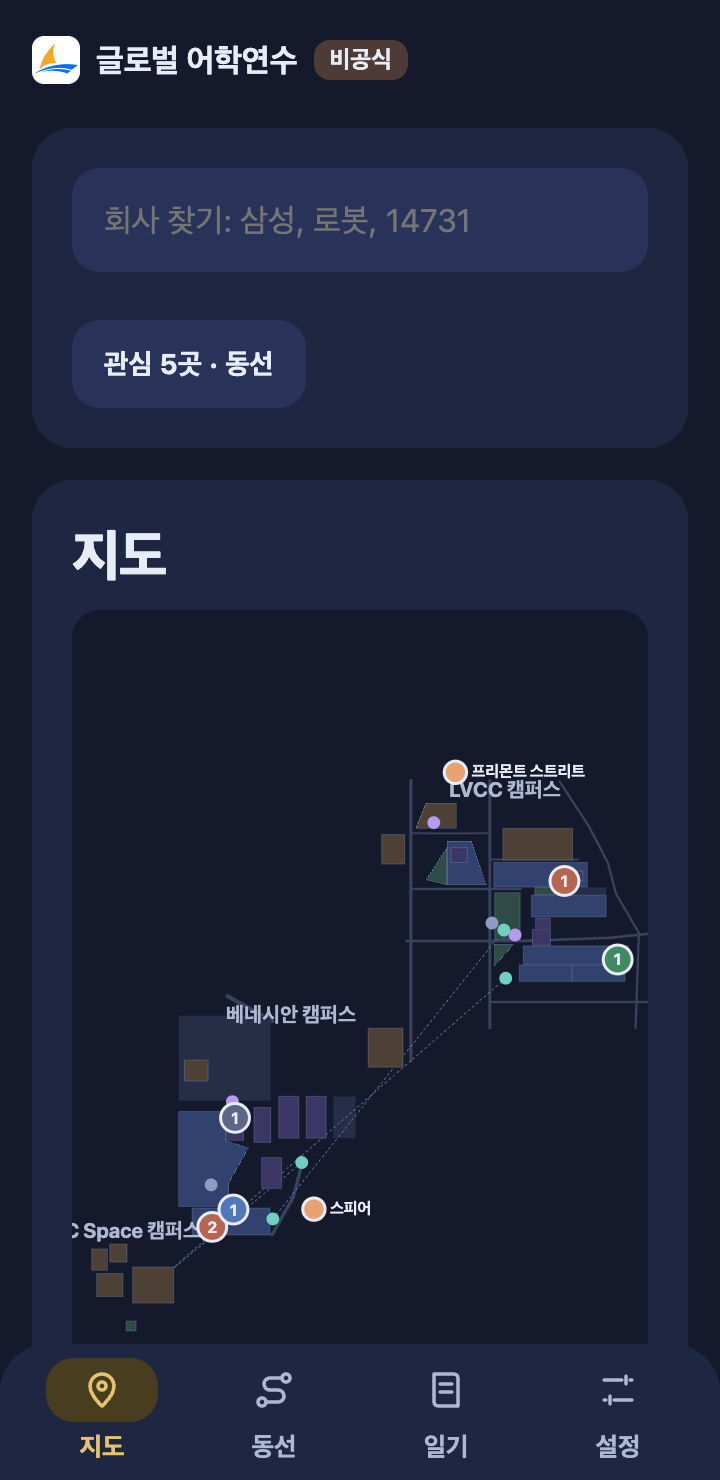
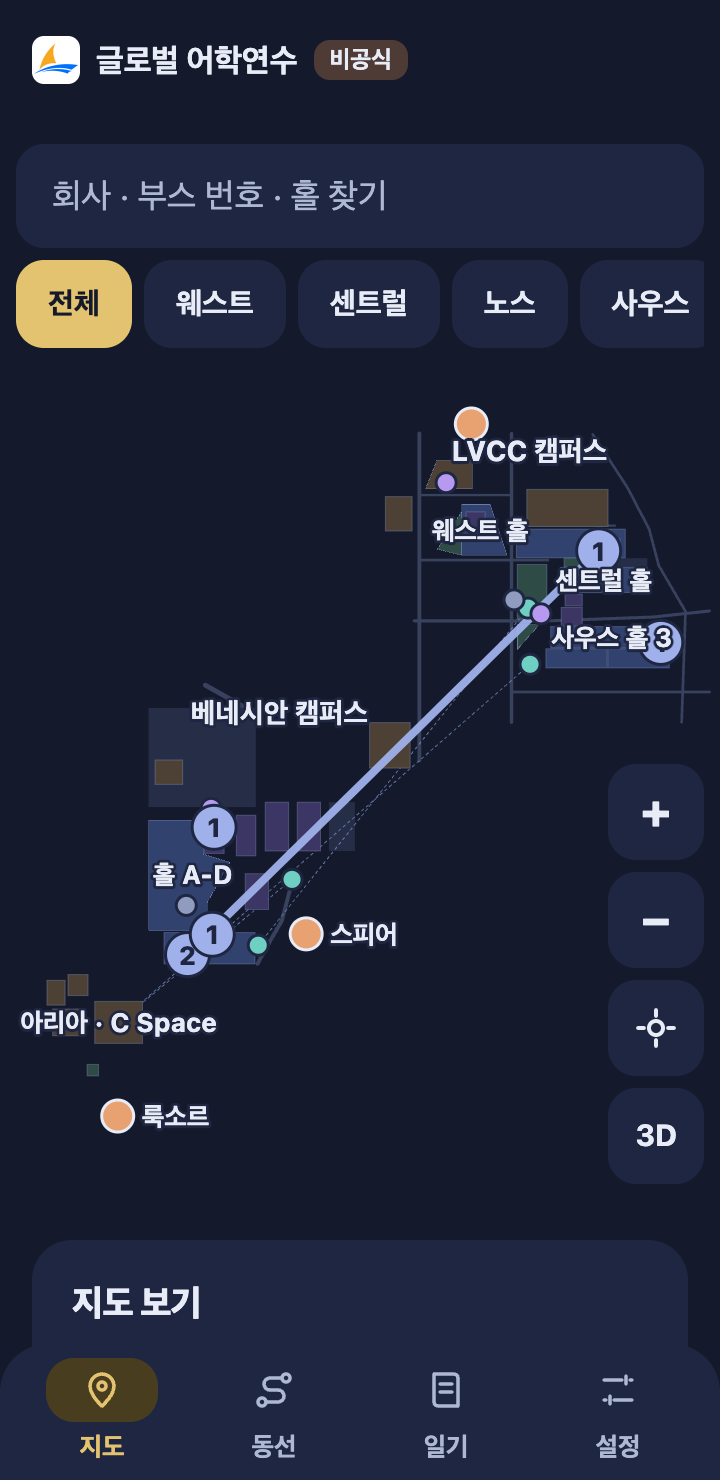
무채색 테마: 새 지도 위에서 사진 · 홀 칩 · 작업.md 맞춤
- 홀 칩(.chip-go) 고른 것도 검정 칠한 칩으로(강조색은 관심 · 동선 · 위치에만)
- 전 · 후 사진을 #63(지도 4단계) 기준으로 다시 찍음(찾기 · 부스 카드 포함)
- 작업.md에 기록

diff --git a/web/app.css b/web/app.css
@@ -230,7 +230,7 @@ details.more[open] > summary { margin-bottom: var(--s2); }
 .chips { display: flex; gap: 6px; overflow-x: auto; scrollbar-width: none; padding-bottom: 2px; }
 .chips::-webkit-scrollbar { display: none; }
 .chip-go { flex: none; min-height: var(--tap-min); padding: 0 var(--s4); border: 0; border-radius: var(--radius-ctl); background: var(--panel); color: var(--ink); font-size: 15px; font-weight: 700; cursor: pointer; }
-.chip-go[aria-pressed="true"] { background: var(--accent); color: var(--on-accent); }
+.chip-go[aria-pressed="true"] { background: var(--btn); color: var(--on-btn); }
 .ctls { position: absolute; right: var(--s2); bottom: calc(var(--s4) + var(--sheet-h, 0px)); z-index: 3; display: grid; gap: 6px; transition: bottom 0.22s ease; }
 .mapx[data-sheet="half"] .ctls, .mapx[data-sheet="full"] .ctls { display: none; }
 .ctl { display: flex; align-items: center; justify-content: center; width: 48px; height: 48px; padding: 0; border: 0; border-radius: var(--radius-ctl); background: var(--panel); color: var(--ink); font-size: 24px; font-weight: 700; cursor: pointer; }

diff --git a/작업.md b/작업.md
@@ -329,6 +329,18 @@
 - 사진(360px, 밝게): 전 `docs/screens/90-before-*.png`(캠퍼스 · 노스 홀 · 베네시안 G) → 후 `91-after-campus.png` · `92-after-hall.png`(+ 390px `96`) · `93-after-booth.png` · `94-after-card.png`(+ 390px `97`) · `95-after-search.png`
 - 남은 것(사람 · 실제 폰): 실제 폰에서 두 손가락 확대의 감각과 60프레임(테스터 안내 4-1), 아이폰 사파리에서 지도 위 끌기가 페이지 스크롤과 부딪치지 않는지. 지도 색은 곧 바뀌는 무채색 테마 토큰을 따른다. 부스 자리는 정식 배치도 전이라 계속 짐작이다
 
+### 무채색 테마 (11/22, 단계 밖 · 다시 짓기와 따로)
+
+이재엽 "무채색 중심, 요즘 앱 모양, 강조색 하나". 색과 모양 토큰(`web/tokens.css`)과 공통 CSS(`web/app.css`)만 고쳤다. 지도를 그리는 코드는 건드리지 않았고 지도 색은 토큰이 따라온다.
+
+- [x] 색: 바탕 · 카드 · 글씨는 회색 단계(밝게 #f2f2f2 · #fff · #111, 어둡게 #161616 · #222 · #f2f2f2). 색은 채도를 낮춘 회청색 강조색 하나(관심 · 동선 · 지금 위치 · 고른 것) + 상태 글자색 하나. 탭마다 다른 강조색 · 민트 · 복숭아 · 라일락 면은 없앴다(`--lilac` 삭제, `--tab-*` 삭제)
+- [x] 모양: 큰 제목 34, 모서리 8 ~ 12, 그림자 · 선 없음, 검정(어둡게 흰색) 칠한 단추 `--btn` + 글자 단추. 고르는 칩은 고르면 검정 칠한 면. 테마 셋(자동 · 밝게 · 어둡게)은 그대로
+- [x] 지도 토큰: 홀 · 부스 · 길은 회색 단계, 날짜별 동선 번호는 강조색 농도, 분야 칠하기는 기본으로 꺼져 있고(한 색 = 회색 점) 고를 때만 채도를 낮춘 일곱 색
+- [x] 색 수(전 → 후): 토큰 값 92 → 70(회색이 아닌 것 76 → 29, 그중 14는 분야 칠하기 선택 색), 화면에 칠해진 색(계산값, 지도 · 동선 · 일기 · 설정 합) 밝게 27 → 19 · 어둡게 28 → 19, 그중 회색이 아닌 것 15 → 1 · 26 → 2
+- [x] 시험: smoke 170 통과(파스텔 · 탭 강조색 검사를 무채색 규칙 검사로 바꿈) · Playwright 셋(첫 명함 · 지도 · 대화) 통과 · 보드 check 잘못 0 · 글자 대비 4.5:1 직접 셈 · 첫 화면 재기는 전과 같다(명함 있는 사람 지도 FCP 564 ms · 완성 3.2초는 gzip 없는 로컬이라 CI 때보다 느리게 나오고, 전 main도 같은 값)
+- [x] 사진(360px, 전 · 후, 밝게 · 어둡게 · 지도 · 동선 · 일기 · 설정 · 찾기 · 부스 카드): `docs/screens/무채색-테마/`
+- 남은 것(사람): 실제 폰에서 어둡게 · 밝게로 QR이 잘 읽히는지(QR은 흰 바탕 + 검정으로 바꿨다). 분야 칠하기를 켰을 때 일곱 색이 너무 약한지는 현장에서 본다
+
 ## 붙여 넣을 말 (세션마다)
 
 `ces-2027 작업.md 세션 1대로 해 줘. 이슈 번호를 PR에 걸고, 기능이 바뀌면 보드(docs/board)도 고쳐 줘. 병합은 나한테 묻기.`
